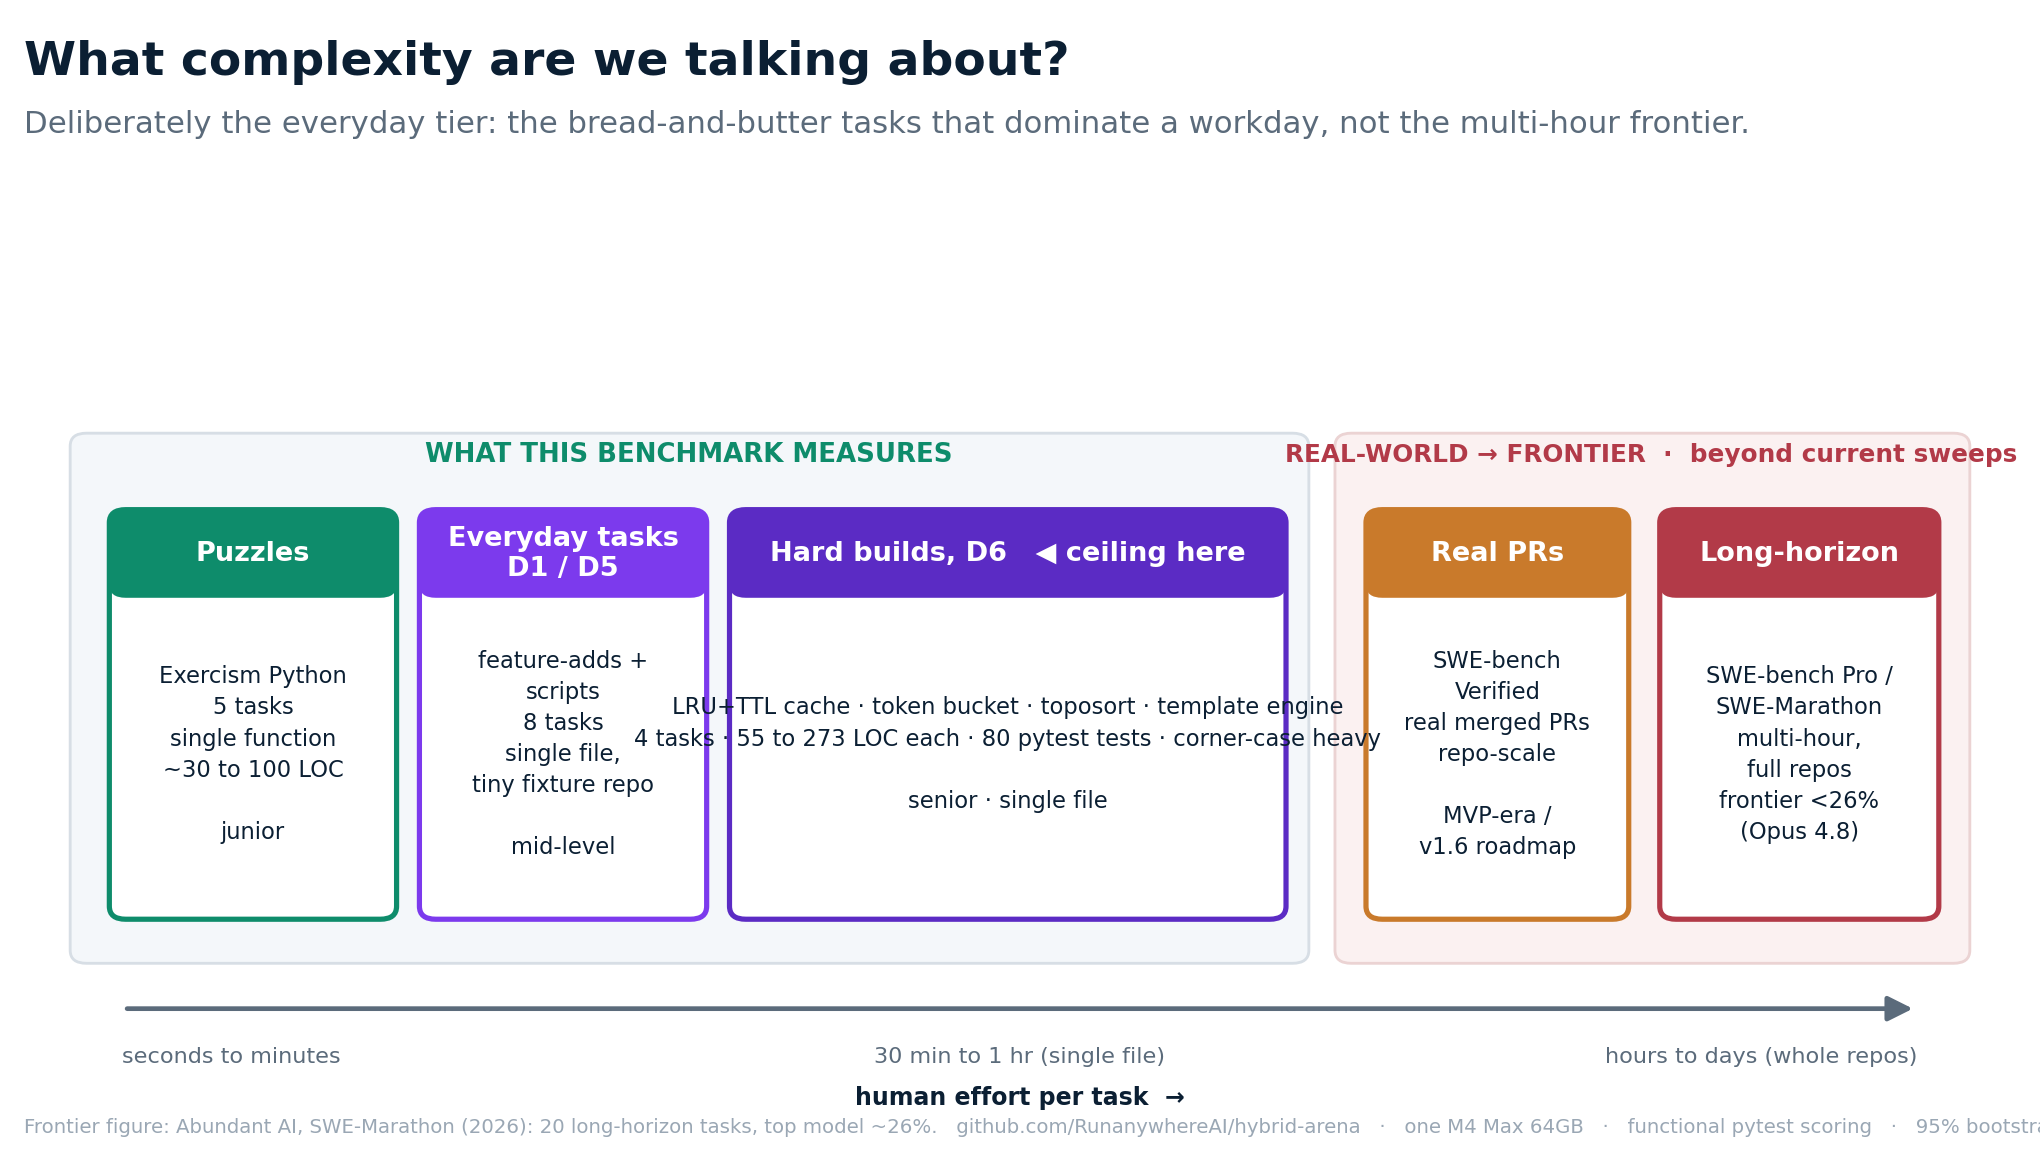
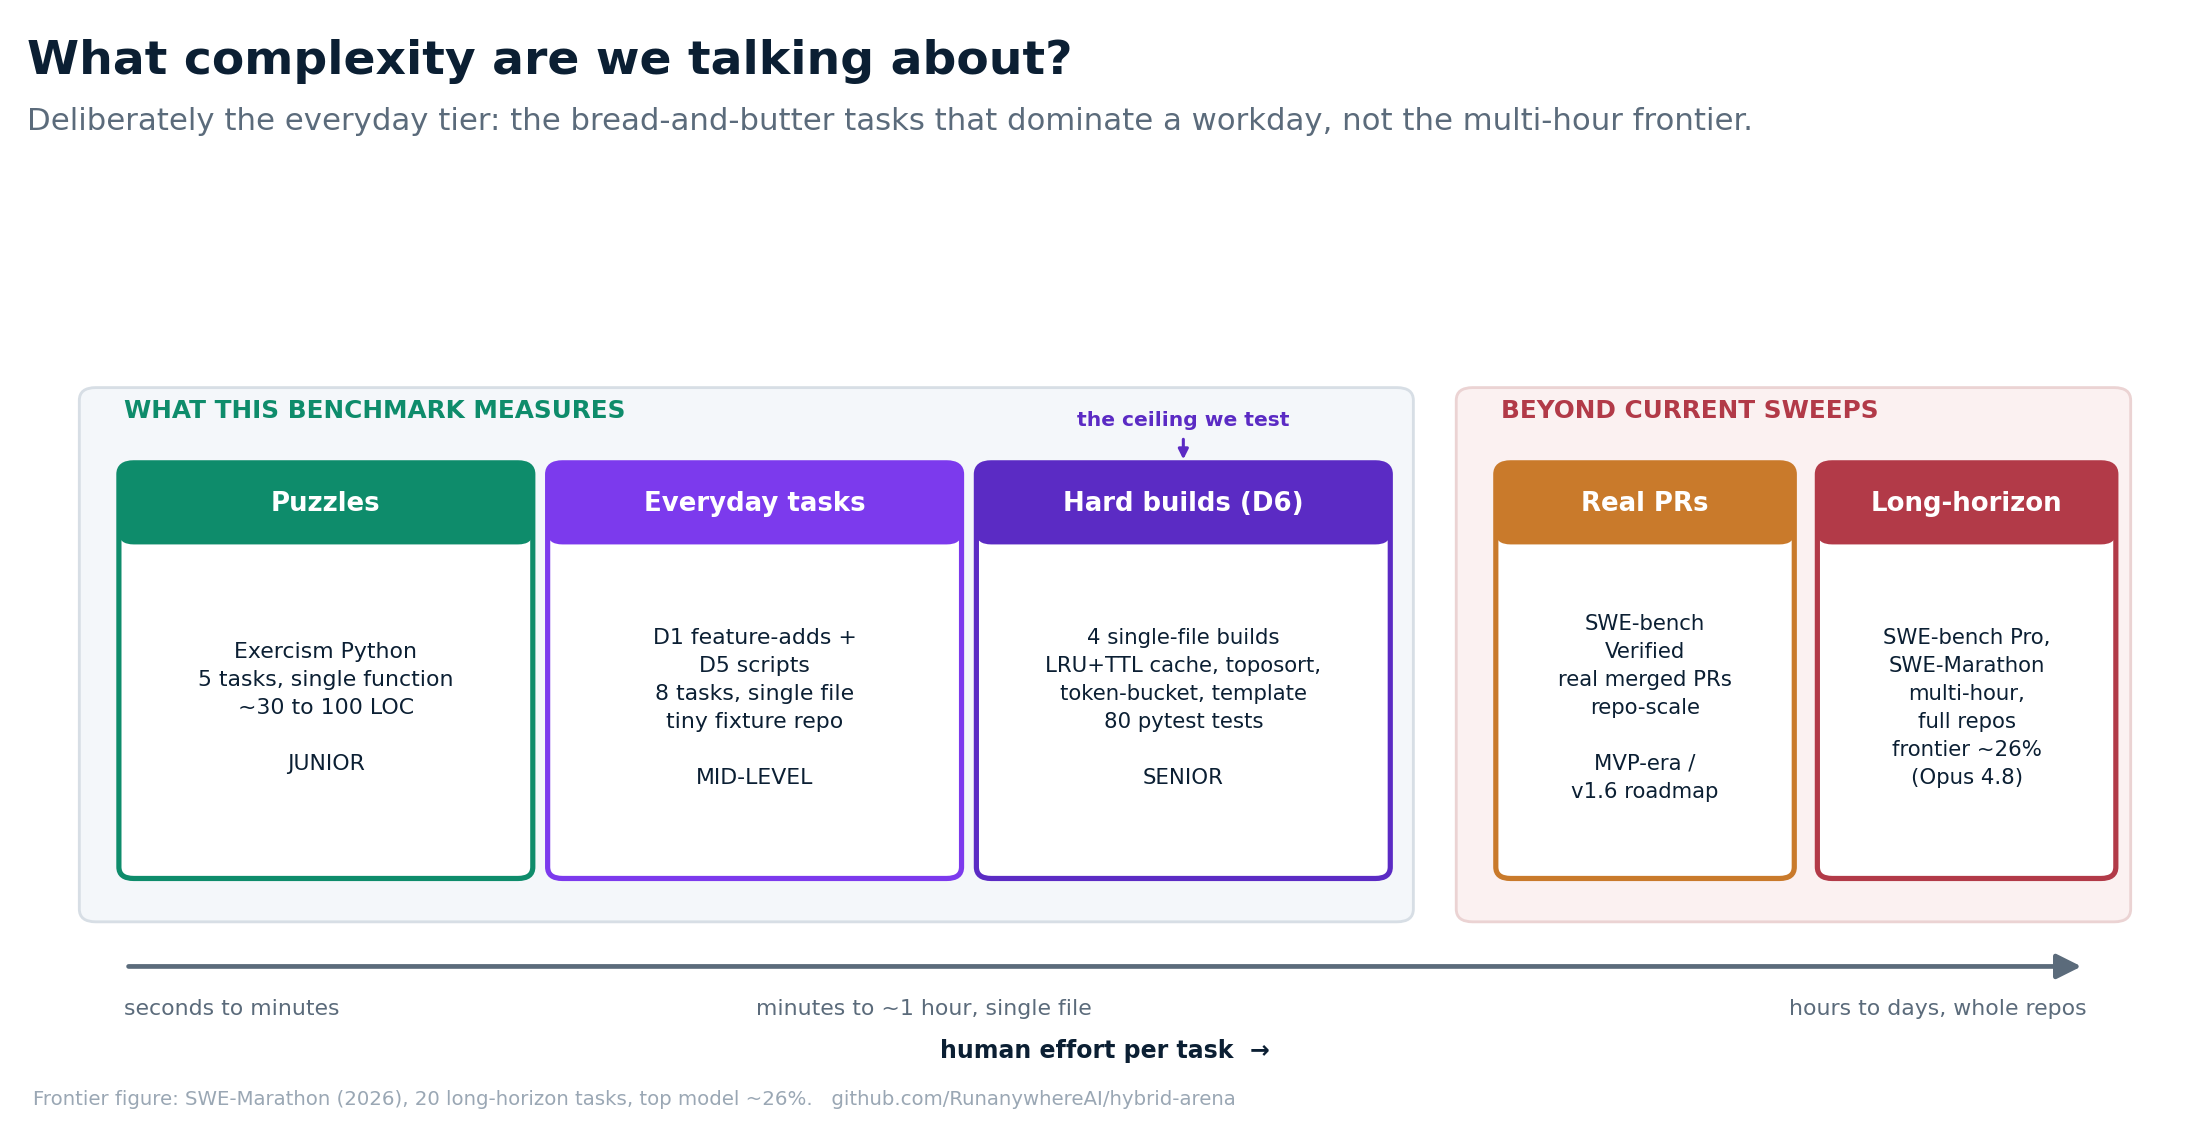
docs: cleaner complexity-spectrum chart + README refresh for 1.6.0
Rebuild the complexity-spectrum figure with five consistent cards, shorter
non-overflowing body text, a clear "ceiling we test" marker, and a tidy
difficulty axis. Refresh the README citation (title, key, version 1.6.0) and
point the dataset-compare command at the v1.6.0 release.

diff --git a/docs/images/make_charts.py b/docs/images/make_charts.py
@@ -200,44 +200,61 @@ print("architecture.png")
 # ===========================================================================
 # 5 - Complexity spectrum: where these tasks sit vs the frontier.
 # ===========================================================================
-fig, ax = plt.subplots(figsize=(12.0, 6.8))
-fig.subplots_adjust(top=0.78, bottom=0.04, left=0.02, right=0.98)
-ax.set_xlim(0,12); ax.set_ylim(0,6.6); ax.axis("off")
+fig, ax = plt.subplots(figsize=(13.0, 6.6))
+fig.subplots_adjust(top=0.80, bottom=0.05, left=0.015, right=0.985)
+ax.set_xlim(0, 13); ax.set_ylim(0, 6.6); ax.axis("off")
 
-# "measured here" band vs "frontier (out of scope)" band
-ax.add_patch(FancyBboxPatch((0.2,1.15),7.55,4.05,boxstyle="round,pad=0.02,rounding_size=0.1",
+DEEP = "#5B2BC4"; AMBER = "#C97A2B"; RED = "#B23A48"
+
+# two zones: what we measure (left) vs beyond current sweeps (right)
+ax.add_patch(FancyBboxPatch((0.30, 1.15), 8.05, 4.15, boxstyle="round,pad=0.02,rounding_size=0.1",
              fc=PANEL, ec="#D7DEE5", lw=1.2, zorder=0))
-ax.add_patch(FancyBboxPatch((7.95,1.15),3.85,4.05,boxstyle="round,pad=0.02,rounding_size=0.1",
+ax.add_patch(FancyBboxPatch((8.65, 1.15), 4.05, 4.15, boxstyle="round,pad=0.02,rounding_size=0.1",
              fc="#FBF1F1", ec="#EBD3D3", lw=1.2, zorder=0))
-ax.text(3.97,5.0,"WHAT THIS BENCHMARK MEASURES",fontsize=11,fontweight="bold",color=LOCAL,ha="center")
-ax.text(9.87,5.0,"REAL-WORLD → FRONTIER  ·  beyond current sweeps",fontsize=10.5,fontweight="bold",color="#B23A48",ha="center")
+ax.text(0.55, 5.08, "WHAT THIS BENCHMARK MEASURES", ha="left", fontsize=10.5, fontweight="bold", color=LOCAL)
+ax.text(8.90, 5.08, "BEYOND CURRENT SWEEPS", ha="left", fontsize=10.5, fontweight="bold", color=RED)
 
-# difficulty arrow
-ax.add_patch(FancyArrowPatch((0.5,0.78),(11.5,0.78),arrowstyle="-|>",mutation_scale=22,color=MUTED,lw=2))
-ax.text(0.5,0.36,"seconds to minutes",fontsize=9.5,color=MUTED)
-ax.text(6.0,0.36,"30 min to 1 hr (single file)",fontsize=9.5,color=MUTED,ha="center")
-ax.text(11.5,0.36,"hours to days (whole repos)",fontsize=9.5,color=MUTED,ha="right")
-ax.text(6.0,0.04,"human effort per task  →",fontsize=10,color=INK,ha="center",fontweight="bold")
-
-def card(x, w, title, sub, color, y=1.5, h=3.1):
-    ax.add_patch(FancyBboxPatch((x,y),w,h,boxstyle="round,pad=0.03,rounding_size=0.1",
+def card(x, w, title, body, color, body_fs=9.3):
+    hh = 0.58
+    ax.add_patch(FancyBboxPatch((x, 1.5), w, 3.2, boxstyle="round,pad=0.03,rounding_size=0.09",
                  fc="white", ec=color, lw=2.2, zorder=2))
-    ax.add_patch(FancyBboxPatch((x,y+h-0.62),w,0.62,boxstyle="round,pad=0.03,rounding_size=0.1",
+    ax.add_patch(FancyBboxPatch((x, 1.5 + 3.2 - hh), w, hh, boxstyle="round,pad=0.03,rounding_size=0.09",
                  fc=color, ec=color, lw=0, zorder=3))
-    ax.text(x+w/2, y+h-0.31, title, ha="center", va="center", color="white",
-            fontsize=11.5, fontweight="bold", zorder=4)
-    ax.text(x+w/2, y+(h-0.62)/2, sub, ha="center", va="center", color=INK,
-            fontsize=9.6, zorder=4, linespacing=1.45)
+    ax.text(x + w/2, 1.5 + 3.2 - hh/2, title, ha="center", va="center", color="white",
+            fontsize=11, fontweight="bold", zorder=4)
+    ax.text(x + w/2, 1.5 + (3.2 - hh)/2, body, ha="center", va="center", color=INK,
+            fontsize=body_fs, zorder=4, linespacing=1.5)
 
-card(0.45, 1.7, "Puzzles", "Exercism Python\n5 tasks\nsingle function\n~30 to 100 LOC\n\njunior", LOCAL, h=3.1)
-card(2.35, 1.7, "Everyday tasks\nD1 / D5", "feature-adds +\nscripts\n8 tasks\nsingle file,\ntiny fixture repo\n\nmid-level", HYBRID, h=3.1)
-card(4.25, 3.35, "Hard builds, D6   ◀ ceiling here", "LRU+TTL cache · token bucket · toposort · template engine\n4 tasks · 55 to 273 LOC each · 80 pytest tests · corner-case heavy\n\nsenior · single file", "#5B2BC4", h=3.1)
-card(8.15, 1.55, "Real PRs", "SWE-bench\nVerified\nreal merged PRs\nrepo-scale\n\nMVP-era /\nv1.6 roadmap", "#C97A2B", h=3.1)
-card(9.95, 1.65, "Long-horizon", "SWE-bench Pro /\nSWE-Marathon\nmulti-hour,\nfull repos\nfrontier <26%\n(Opus 4.8)", "#B23A48", h=3.1)
+# left zone: 3 cards
+card(0.55, 2.45, "Puzzles",
+     "Exercism Python\n5 tasks, single function\n~30 to 100 LOC\n\nJUNIOR", LOCAL)
+card(3.15, 2.45, "Everyday tasks",
+     "D1 feature-adds +\nD5 scripts\n8 tasks, single file\ntiny fixture repo\n\nMID-LEVEL", HYBRID)
+card(5.75, 2.45, "Hard builds (D6)",
+     "4 single-file builds\nLRU+TTL cache, toposort,\ntoken-bucket, template\n80 pytest tests\n\nSENIOR", DEEP, body_fs=9.0)
+# right zone: 2 cards
+card(8.90, 1.75, "Real PRs",
+     "SWE-bench\nVerified\nreal merged PRs\nrepo-scale\n\nMVP-era /\nv1.6 roadmap", AMBER, body_fs=9.0)
+card(10.85, 1.75, "Long-horizon",
+     "SWE-bench Pro,\nSWE-Marathon\nmulti-hour,\nfull repos\nfrontier ~26%\n(Opus 4.8)", RED, body_fs=9.0)
+
+# "ceiling" marker over the hard-builds card
+ax.annotate("the ceiling we test", xy=(6.975, 4.72), xytext=(6.975, 5.02), ha="center",
+            fontsize=8.6, fontweight="bold", color=DEEP,
+            arrowprops=dict(arrowstyle="-|>", color=DEEP, lw=1.3))
+
+# difficulty axis
+ax.add_patch(FancyArrowPatch((0.55, 0.78), (12.45, 0.78), arrowstyle="-|>", mutation_scale=22, color=MUTED, lw=2))
+ax.text(0.55, 0.40, "seconds to minutes", ha="left", fontsize=9.3, color=MUTED)
+ax.text(5.4, 0.40, "minutes to ~1 hour, single file", ha="center", fontsize=9.3, color=MUTED)
+ax.text(12.45, 0.40, "hours to days, whole repos", ha="right", fontsize=9.3, color=MUTED)
+ax.text(6.5, 0.06, "human effort per task  →", ha="center", fontsize=10, color=INK, fontweight="bold")
 
 titled(fig, "What complexity are we talking about?",
        "Deliberately the everyday tier: the bread-and-butter tasks that dominate a workday, not the multi-hour frontier.")
-fig.text(0.012,0.02,"Frontier figure: Abundant AI, SWE-Marathon (2026): 20 long-horizon tasks, top model ~26%.   "+SRC,
+fig.text(0.015, 0.015,
+         "Frontier figure: SWE-Marathon (2026), 20 long-horizon tasks, top model ~26%.   "
+         "github.com/RunanywhereAI/hybrid-arena",
          fontsize=8.4, color=FAINT)
 fig.savefig(f"{OUT}/complexity-spectrum.png", dpi=DPI); plt.close(fig)
 print("complexity-spectrum.png")

diff --git a/README.md b/README.md
@@ -121,8 +121,8 @@ at gpt-5.5 list pricing: $30 to $50. Pause and resume any time:
 ./arena status     # PID + row count + RUNNING/PAUSED
 ```
 
-When it finishes, compare your numbers against the canonical v1.5.0
-dataset (`gh release download v1.5.0 -p results-v1.5.0.tar.gz`).
+When it finishes, compare your numbers against the canonical dataset
+(`gh release download v1.6.0 -p results-v1.6.0.tar.gz`).
 
 ### Benchmark a new model
 
@@ -322,14 +322,14 @@ If you use this benchmark or its data in your own work, please cite it. A
 citation is how a small research project gets seen:
 
 ```bibtex
-@misc{monga2026hybridcodingeval,
+@misc{monga2026hybridarena,
   author       = {Monga, Sanchit and contributors},
-  title        = {hybrid-arena: reproducible cost/latency/quality
+  title        = {Hybrid Coding Arena: reproducible cost/latency/quality
                   benchmark for local vs cloud vs hybrid LLM routing on
                   coding tasks},
   year         = {2026},
   howpublished = {\url{https://github.com/RunanywhereAI/hybrid-arena}},
-  note         = {Version 1.5.1}
+  note         = {Version 1.6.0}
 }
 ```
 